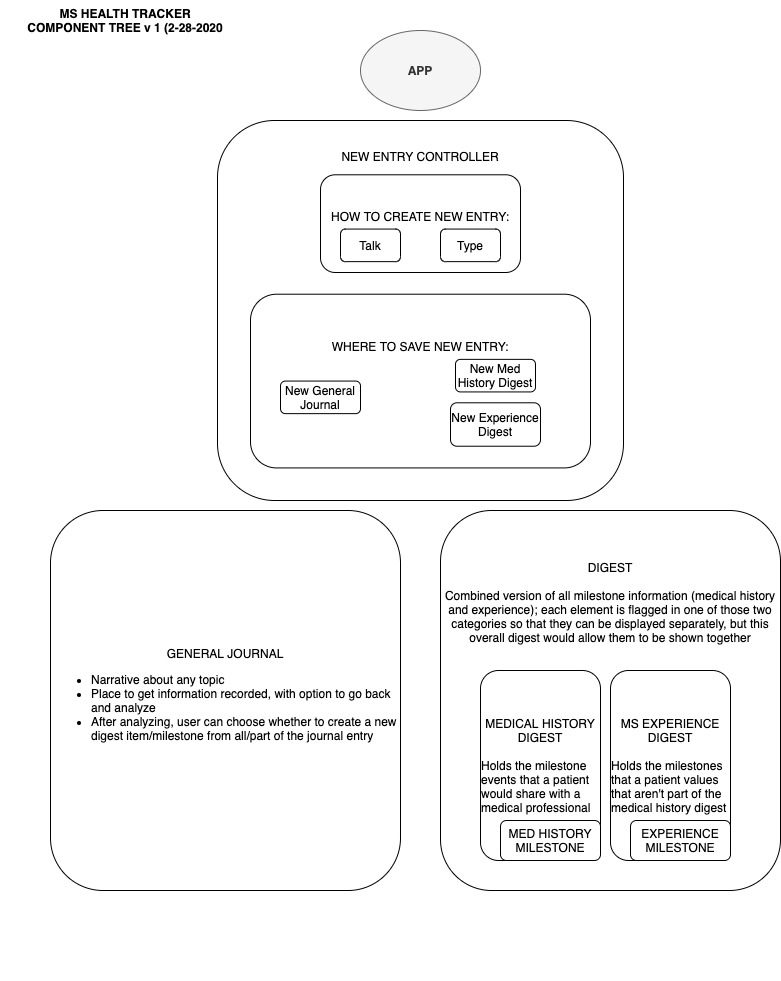
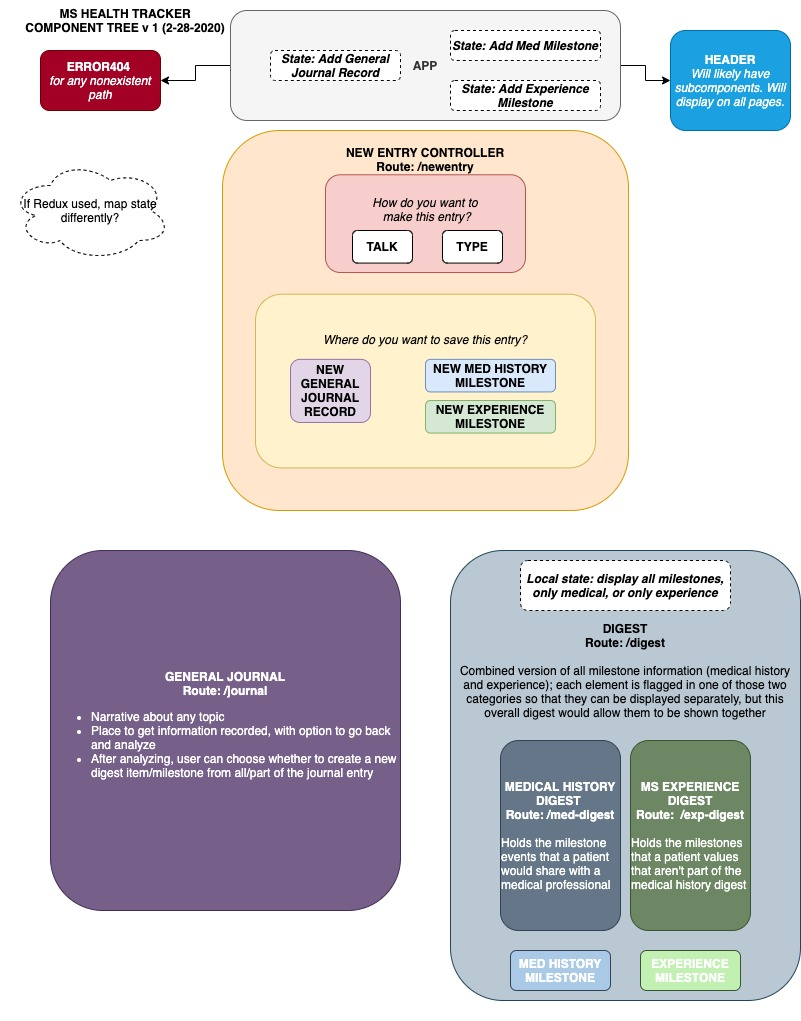
add updated version of component tree

diff --git a/README.md b/README.md
@@ -10,7 +10,8 @@
     * responses (time of day etc. didn't seem to work)
     * save functionality? how to hang onto the text that is generated?
 1:00-1:45 break
-1:45-3:00 start component tree sketch; draft here: ![MS-Tracker-Component-Tree](/MS-Tracker-Component-Tree.jpg)
+1:45-3:00 start component tree sketch
+3:15-4:00 continue with component tree sketch; draft here: ![MS-Tracker-Component-Tree](/MS-Tracker-Component-Tree.jpg)
 
 
 # MS Health Tracker: Epicodus Capstone Project
